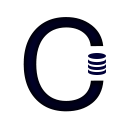
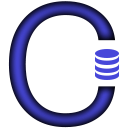
v1.0.3

diff --git a/frontend/new_index.html b/frontend/new_index.html
@@ -15,9 +15,9 @@
 
 
     <div id="mySidenav" class="sidenav">
-        <a href="javascript:void(0)" class="closebtn" onclick="closeNav()">&times;</a>
+        <a href="javascript:void(0)" class="closebtn" height="40px" widht="40px" onclick="closeNav()">&times;</a>
         <div id="menu">
-            <img id="logo" src= "img/logo-transparent.png">
+            <img id="logo" src= "img/logo.png">
             <a href="#dashboard" onClick="changeMenu('welcome');welcome();">Dashboard</a>
             <a onClick="changeMenu('files');loadFiles();">Files</a>
             <a href="#notes" onClick="changeMenu('notes');loadNotes()">Notes</a>

diff --git a/frontend/css/style.css b/frontend/css/style.css
@@ -6,11 +6,12 @@ body{
 	color: white;
 	text-align: center;
 	align-items: center;
-	line-height: 10px;
+	line-height: 30px;
 }
 
 .logo{
 	margin-top: 200px;
+	margin-bottom: 70px;
 }
 
 .title{

diff --git a/frontend/css/sidenav.css b/frontend/css/sidenav.css
@@ -56,7 +56,7 @@
     position: absolute;
     top: 0;
     right: 25px;
-    font-size: 36px;
+    font-size: 50px;
     margin-left: 50px;
 }
 
